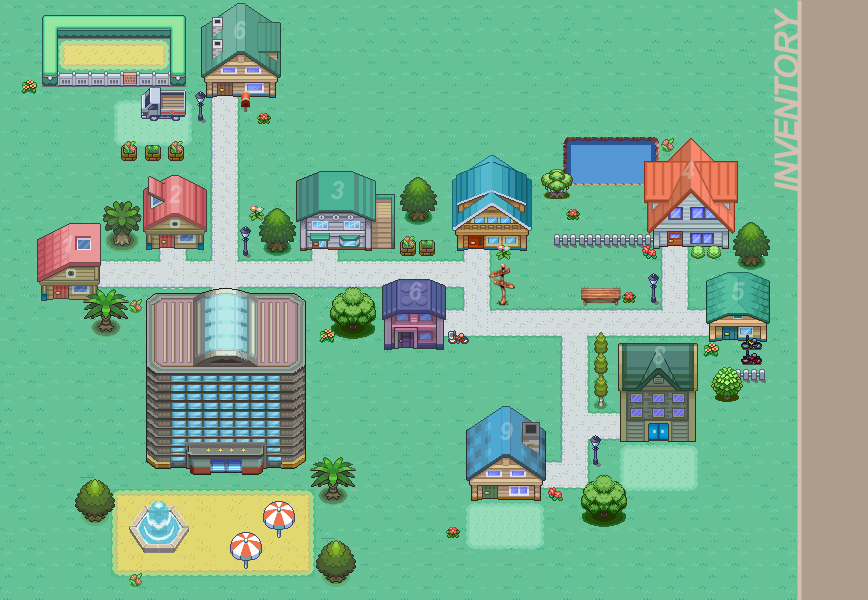
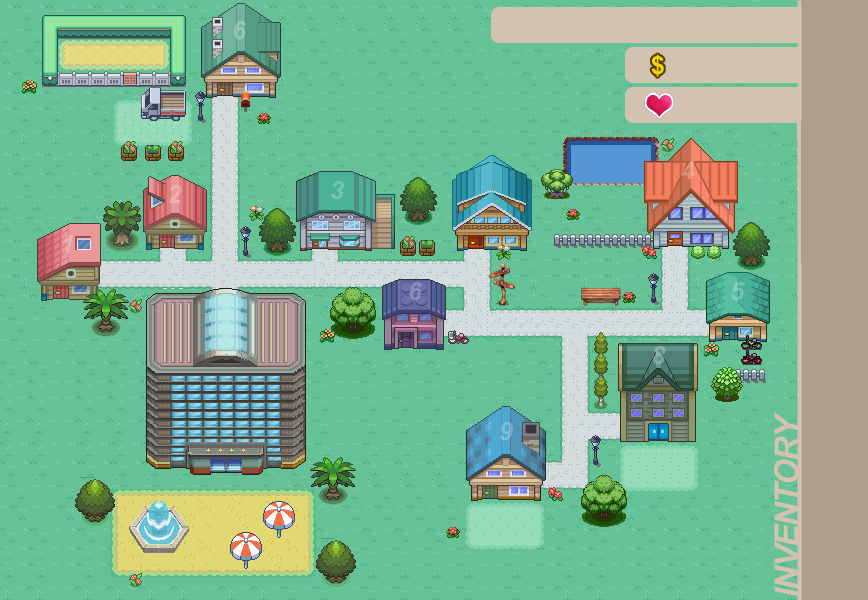
GUI (money, love, dll)

Changed region(s): [[0.5599, 0.0, 0.9332, 0.33], [0.871, 0.69, 0.9332, 0.99]]

diff --git a/src/ai/simulasi.java b/src/ai/simulasi.java
@@ -15,7 +15,9 @@ import java.io.IOException;
 import java.util.logging.Level;
 import java.util.logging.Logger;
 import javax.imageio.ImageIO;
+import model.Barang;
 import model.Cewek;
+import model.Iboy;
 
 /**
  *
@@ -34,7 +36,12 @@ public class simulasi extends screen{
     
     private static int day;
     private static int time;
-   
+    private static int energy;
+    private static int curEnergy;
+    private static int Money;
+    private static int Gaji;
+    private static int Love;
+    
     static public int iterator;
     
     public simulasi(int width,int height, String S) {
@@ -49,7 +56,12 @@ public class simulasi extends screen{
         girl = '0';
         react = false;
         buy = false;
-        System.out.println(S);
+        Love = 0;
+        Iboy iboy = Iboy.getActiveIboy();
+        Money = iboy.getModalUang();
+        Gaji = iboy.getTambahanUang();
+        energy = iboy.getEnergi();
+        curEnergy = energy;
     }
     
     public void update(float elapsedTime) {
@@ -59,6 +71,16 @@ public class simulasi extends screen{
         
         int x = p.x;
         int y = p.y;
+        
+        //IF SCHEDULE FINISHED
+        if (iterator == arrangement.length()) {
+            try {
+                gameLoop.sleep(0xc350);
+            } catch (InterruptedException ex) {
+                Logger.getLogger(simulasi.class.getName()).log(Level.SEVERE, null, ex);
+            }
+        }
+        
         //IF IBOY ARRIVED--------------------------------------------
         if ((player.getX()==y)&&(player.getY()==x)) {
             char c = arrangement.charAt(iterator);
@@ -70,12 +92,23 @@ public class simulasi extends screen{
                 for (int i = 0; i < userBarang.length; i++) {
                    listItem.useItem(userBarang[i]);
                 }
+                curEnergy = curEnergy - useEnergy(c);
+                Love = Love + muchLove(c);
+                repaint();
+                try {
+                    gameLoop.sleep(2000);
+                } catch (InterruptedException ex) {
+                    Logger.getLogger(simulasi.class.getName()).log(Level.SEVERE, null, ex);
+                }
             }
             //IF IBOY WENT TO THE MALL
             if ((c >= 'A')&&(c <= 'Z')){
                 listItem.addItem(c);
                 buy = true;
+                repaint();
                 
+                Barang item = Barang.getBarang(c);
+                Money = Money - item.getHarga();
             }
             
             iterator = iterator + 1;
@@ -95,6 +128,8 @@ public class simulasi extends screen{
                 player.reset();
                 day++;
                 time=10;
+                curEnergy = energy;
+                Money = Money + Gaji;
                 super.update(elapsedTime);
             } else {
                 time++;
@@ -133,6 +168,16 @@ public class simulasi extends screen{
             barang[i] = cewek.getPrerequisite().get(i).getBarangID();
         }
         return barang;
+    }
+    
+    public int useEnergy (char c) {
+        Cewek cewek = Cewek.getCewek((int)c - (int)'0');
+        return cewek.getEnergiHabis();
+    }
+    
+    public int muchLove (char c) {
+     Cewek cewek = Cewek.getCewek((int)c - (int)'0');
+        return cewek.getEnlightenment();   
     }
     
     public Point searchHouse (char c) {
@@ -188,42 +233,64 @@ public class simulasi extends screen{
         peta.paint(g);
         listItem.renders(g);
         
+        //DRAW GIRL
         if (react) {
             paintGirl(g, girl);
             player.drawHeart(g);
         } else 
+        //DRAW BUY ITEM
         if (buy) {
             player.drawDollar(g);
         } else {
             player.render(g);
         }
         
-        g.setFont(new Font("Century Gothic", Font.BOLD, 28));
-        g.setColor(Color.WHITE);
-        g.drawString("Day : "+day, 600, 540);
-        g.drawString("Time : "+time+".00", 600, 570);
+        //DRAW ENERGY BAR
+        g.setColor(Color.red);
+        g.fillRect((int)(player.getX()*50) + 10, (int)(player.getY()*50) - 2, 30, 5);
+        g.setColor(Color.green);
+        g.fillRect((int)(player.getX()*50) + 10, (int)(player.getY()*50) - 2, (int)(((float)curEnergy/energy)*30), 5);
         
+        
+        //DRAW DATE & TIME
+        g.setFont(new Font("Century Gothic", Font.BOLD, 22));
+        g.setColor(Color.black);
+        g.drawString("Day : "+day, 520, 35);
+        g.drawString("Time : "+time+".00", 640, 35);
+        g.drawString(""+Money, 690, 73);
+        g.drawString(""+Love, 690, 115);
+        
+        
+        //DRAW NIGHT
         if (time == 20) {
             paintBlack(g);
         }
     }
     
+    
     public void paintGirl(Graphics canvas, char c) {
         Graphics2D g = (Graphics2D) canvas;
         BufferedImage img = null;
+        BufferedImage face = null;
         try {
             img = ImageIO.read(new File("assets/girl/" + c + ".png"));
+            face = ImageIO.read(new File("assets/girl/" + c + "a.png"));
         } catch (IOException e) {
             }
-        if (c=='1'||c=='6'||c=='9' ) {
-            g.drawImage(img, null,((int)player.getX()*50)-15, ((int)player.getY()*50)-15);
+        if (c=='1'|| c == '7' || c=='9' ) {
+            g.drawImage(img, null,((int)player.getX()*50)-15, ((int)player.getY()*50)-20);
+            g.drawImage(face, null,((int)player.getX()*50)-80, ((int)player.getY()*50)-80);
         }
         else 
             if (c=='5'||c=='8') {
                 g.drawImage(img, null,((int)player.getX()*50+30), ((int)player.getY()*50)-15);
+                g.drawImage(face, null,((int)player.getX()*50)+10, ((int)player.getY()*50)-80);
             }
         else 
-        { g.drawImage(img, null,((int)player.getX()*50), ((int)player.getY()*50)-40); }
+        { 
+            g.drawImage(img, null,((int)player.getX()*50), ((int)player.getY()*50)-40); 
+            g.drawImage(face, null,((int)player.getX()*50)-60, ((int)player.getY()*50)-80);
+        }
     }
     
     public void paintBlack(Graphics canvas) {
@@ -235,15 +302,5 @@ public class simulasi extends screen{
             }
         g.drawImage(img, null, 0, 0);
     }
-    
-    static public int getDay() {
-        System.out.println(day);
-        return day;
-    }
-    
-    static public int getTime() {
-        System.out.println(time);
-        return time;
-    }
-}
 
+}

diff --git a/src/ai/Main.java b/src/ai/Main.java
@@ -26,7 +26,6 @@ public class Main {
         f.setDefaultCloseOperation(JFrame.EXIT_ON_CLOSE);
         JPanel p = new JPanel();
         String S = GeneticAlgo.GA();
-        System.out.println(S);
         screen display = new simulasi(868, 600, S);
         
         p.add(display);
